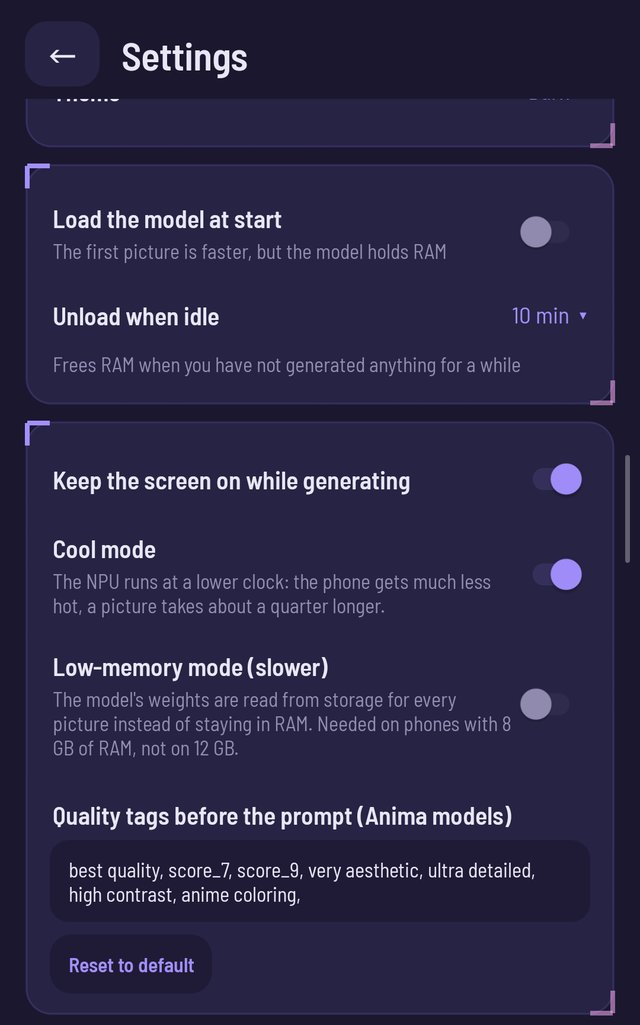
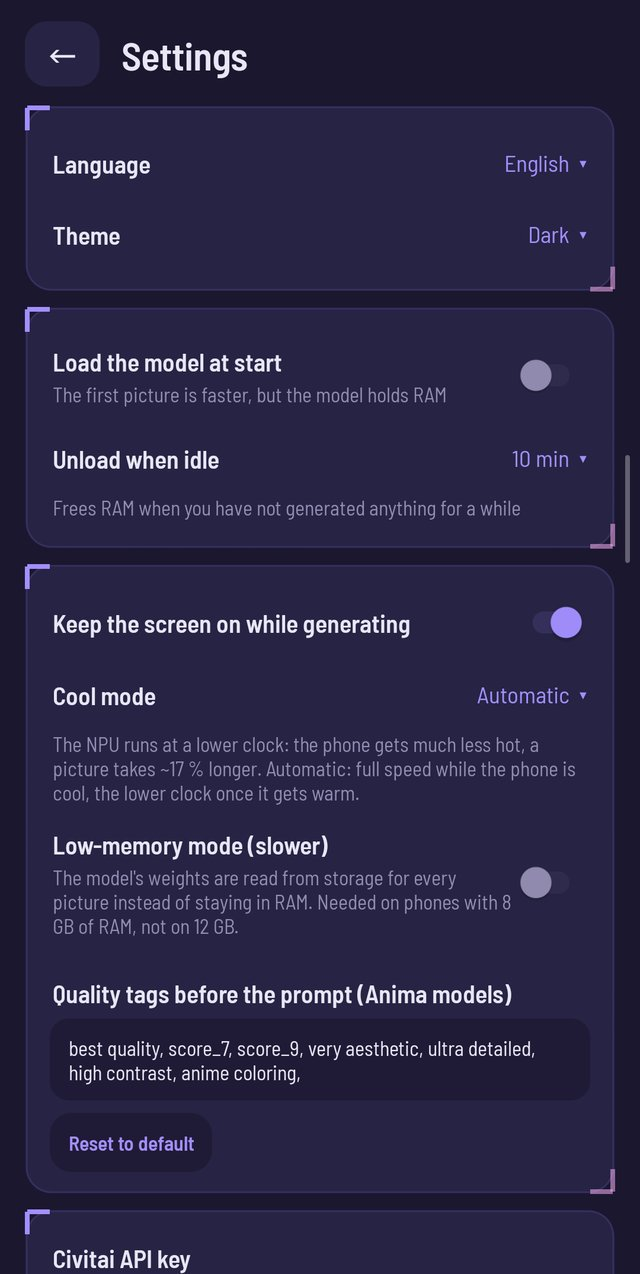
README: screenshots of automatic cool mode, LoRA text-encoder weights and the LoRA cache

diff --git a/README.md b/README.md
@@ -65,7 +65,11 @@ Times at full speed. Cool mode runs the NPU at a lower clock: about 17 % slower,
 </tr>
 <tr>
 <td align="center"><img src="docs/screens/v73/14-info.jpg" width="220"><br><b>Info · credits to ayanoby</b></td>
-<td></td><td></td>
+<td align="center"><img src="docs/screens/v73/15-cool-mode.jpg" width="220"><br><b>Cool mode: Automatic / Always / Never</b></td>
+<td align="center"><img src="docs/screens/v73/17-lora-cache.jpg" width="220"><br><b>LoRA library · q8 cache size</b></td>
+</tr>
+<tr>
+<td align="center" colspan="3"><img src="docs/screens/v73/16-lora-text-encoder.jpg" width="440"><br><b>A LoRA with text-encoder weights: applied, the prompt is encoded on the CPU</b></td>
 </tr>
 </table>
 
